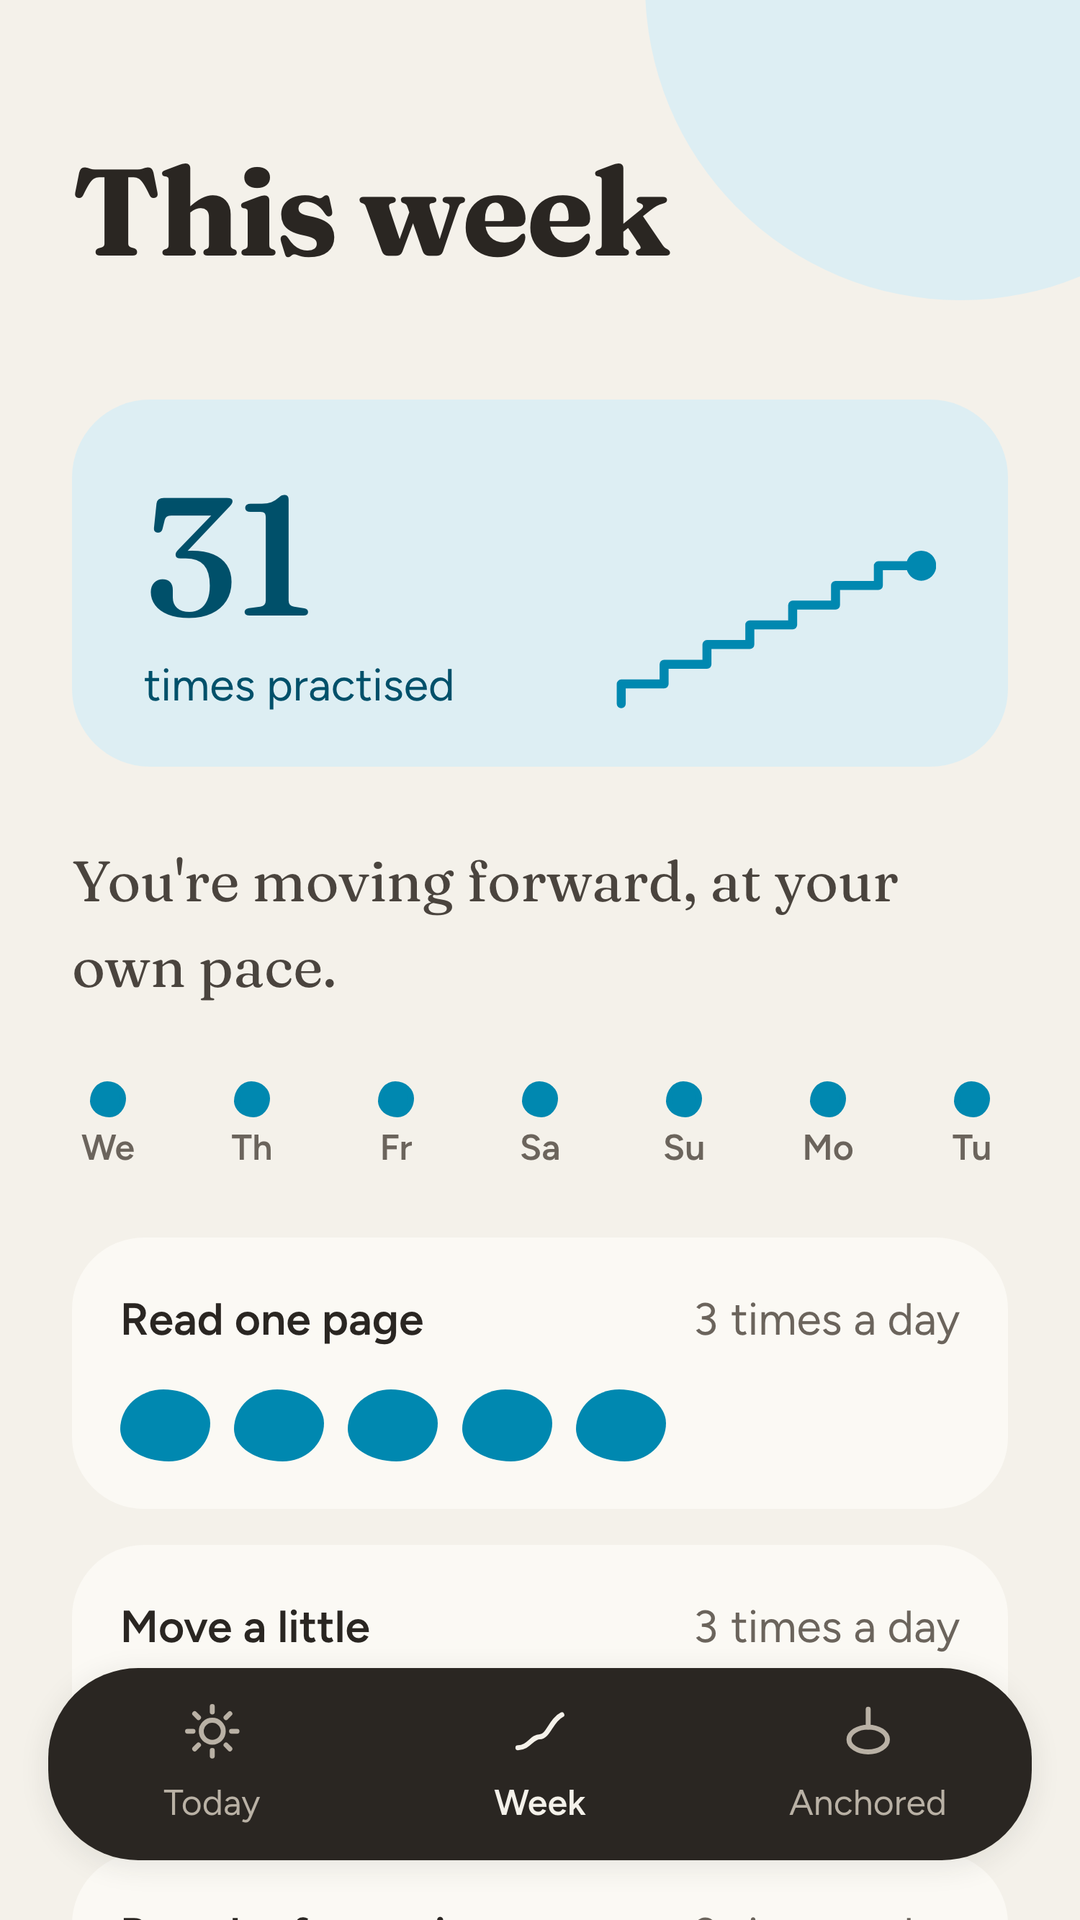
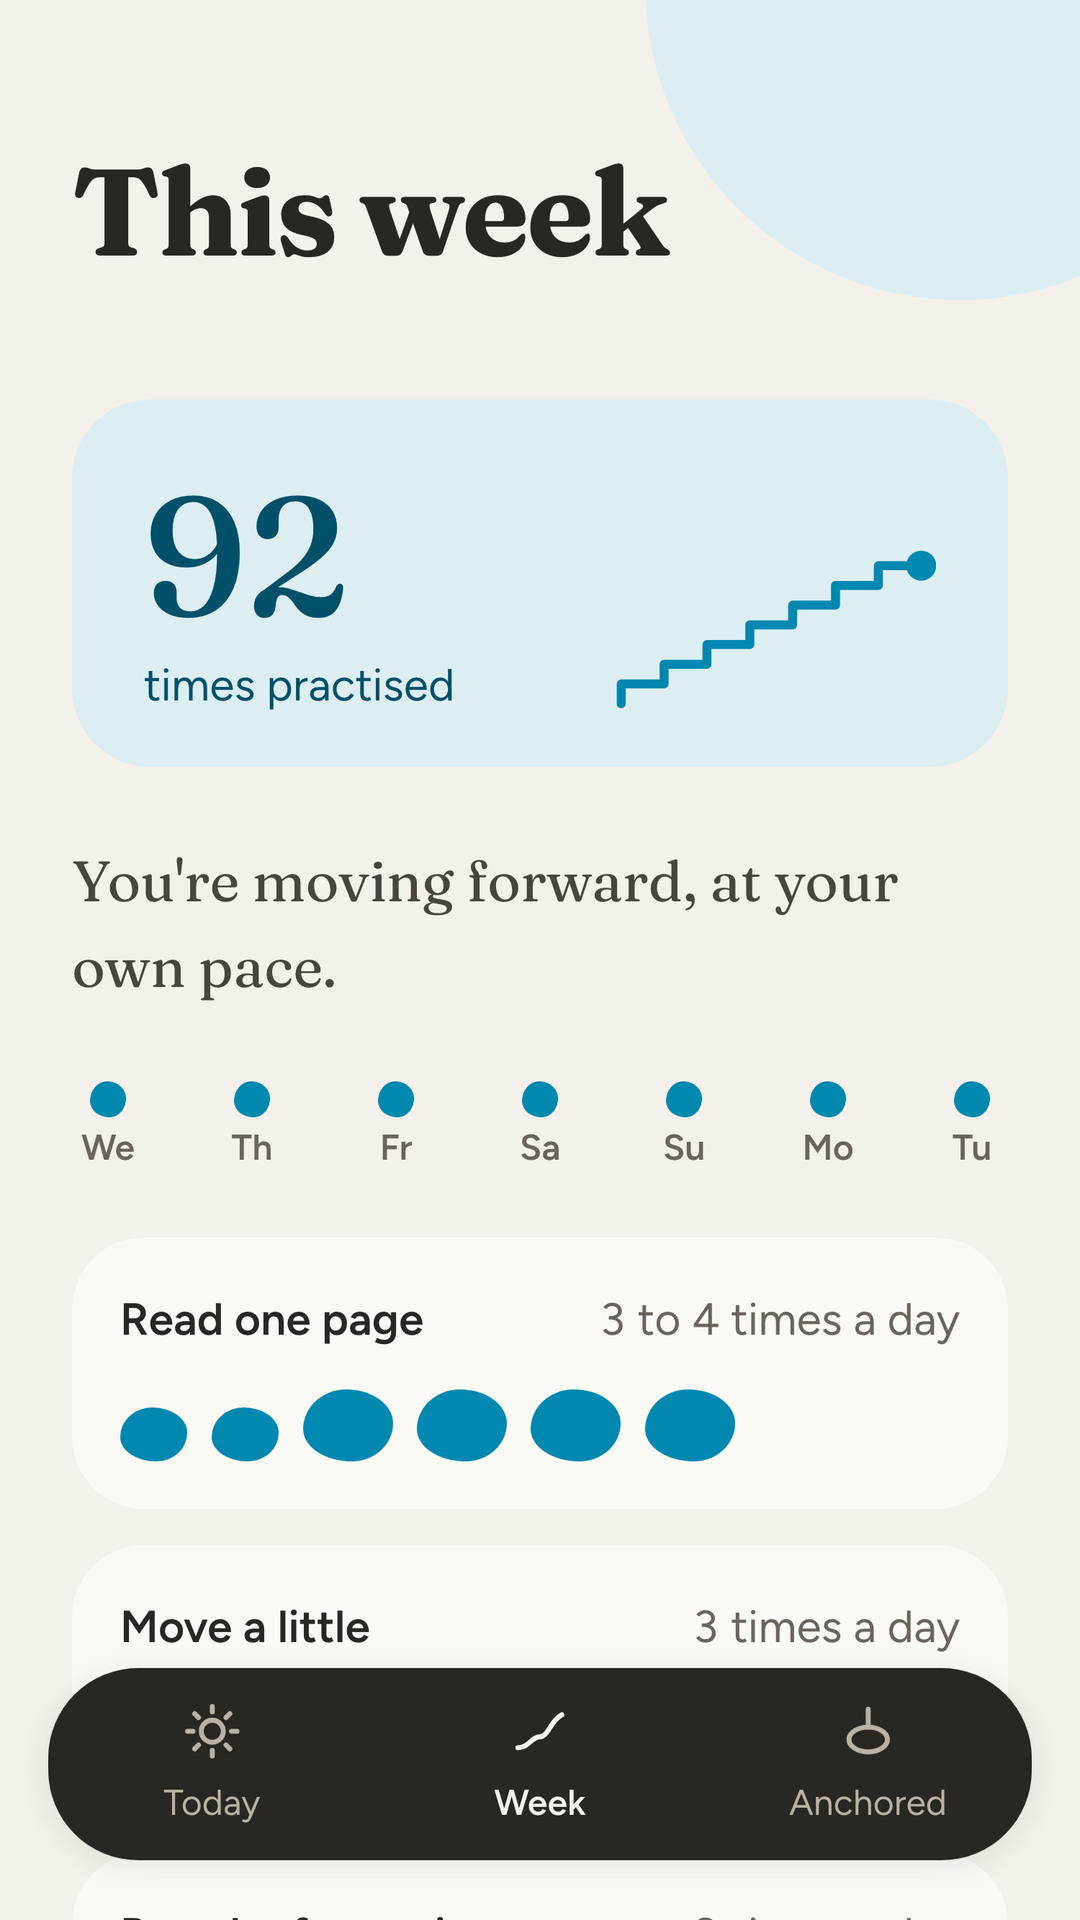
S39: the store demo board shows the times-per-day model

Changed region(s): [[0.1222, 0.6875, 0.7028, 0.7812], [0.1222, 0.25, 0.3056, 0.3438]]

diff --git a/store/listing/test_build_screenshots.py b/store/listing/test_build_screenshots.py
@@ -56,6 +56,63 @@ class FixedDay(unittest.TestCase):
         self.assertEqual(bs.FIXED_DAY.isoformat(), "2026-03-17")
 
 
+class DemoBoardIsTimesPerDay(unittest.TestCase):
+    """The seeded board must read as the version-2 times-per-day model."""
+
+    def setUp(self):
+        self.bs = load()
+        self.snap = self.bs.snapshot("fr")
+        self.today = self.bs.today_as_stored()
+        self.habits = {h["id"]: h for h in self.snap["habits"]}
+
+    def attempts(self, habit, day):
+        return habit["completions"].count(day)
+
+    def goal_on(self, habit, day):
+        goals = [s["goal"] for s in habit["steps"] if s["on"] <= day]
+        return goals[-1]
+
+    def of_state(self, state):
+        return [h for h in self.snap["habits"] if h["state"] == state]
+
+    def test_the_snapshot_is_version_2_so_the_codec_keeps_the_goals(self):
+        self.assertEqual(self.snap["v"], 2)
+
+    def test_lire_une_page_grows_from_3_to_4(self):
+        steps = self.habits["lire-une-page"]["steps"]
+        self.assertEqual([s["goal"] for s in steps], [3, 4])
+
+    def test_lire_une_page_has_an_empty_day_and_sized_pebbles_in_its_last_seven(self):
+        lire = self.habits["lire-une-page"]
+        week = [self.today - back for back in range(7)]
+        attempts = [self.attempts(lire, d) for d in week]
+        self.assertIn(0, attempts)
+        sized = {round(a / self.goal_on(lire, d), 2) for a, d in zip(attempts, week) if a}
+        self.assertGreaterEqual(len(sized), 3)
+
+    def test_today_reads_2_of_3_with_one_partial_habit(self):
+        active = self.of_state("Active")
+        self.assertEqual(len(active), 3)
+        reached = [
+            self.attempts(h, self.today) >= self.goal_on(h, self.today) for h in active
+        ]
+        self.assertEqual(sum(reached), 2)
+        partial = [
+            h
+            for h in active
+            if 0 < self.attempts(h, self.today) < self.goal_on(h, self.today)
+        ]
+        self.assertEqual(len(partial), 1)
+
+    def test_ancrees_reads_4_of_5_with_anchored_habits_present(self):
+        self.assertEqual(len(self.snap["habits"]) - len(self.of_state("Anchored")), 4)
+        self.assertTrue(self.of_state("Anchored"))
+
+    def test_no_completion_is_dated_after_the_fixed_day(self):
+        for habit in self.snap["habits"]:
+            self.assertLessEqual(max(habit["completions"]), self.today)
+
+
 class BlankDetect(unittest.TestCase):
     def test_a_uniform_white_capture_raises(self):
         from PIL import Image

diff --git a/store/listing/build_screenshots.py b/store/listing/build_screenshots.py
@@ -80,12 +80,16 @@ TITLES = {
 # step dated before a completion is what makes the staircase rise -- the demo
 # board grows "Lire une page" twice so the seven-day window shows two heights.
 BOARD = [
-    ("lire-une-page", "Active", [(-24, 5), (-9, 6), (-3, 7)], [-6, -5, -3, -1, 0]),
-    ("bouger-un-peu", "Active", [(-18, 5)], [-5, -4, -2]),
-    ("respirer-une-minute", "Active", [(-12, 3)], [-6, -4, -3, -1, 0]),
-    ("ecrire-trois-lignes", "Paused", [(-30, 5)], [-20, -18, -15]),
-    ("un-verre-d-eau", "Anchored", [(-70, 5)], [-9, -8, -7, -5, -4, -2, -1, 0]),
-    ("ranger-une-chose", "Anchored", [(-52, 5), (-30, 6)], [-11, -9, -8, -6, -4, -3, -1]),
+    ("lire-une-page", "Active", [(-24, 3), (-3, 4)],
+     [(-10, 3), (-6, 3), (-5, 2), (-3, 4), (-2, 3), (-1, 2), (0, 4)]),
+    ("bouger-un-peu", "Active", [(-18, 3)], [(-5, 3), (-4, 2), (-2, 3), (0, 1)]),
+    ("respirer-une-minute", "Active", [(-12, 2)],
+     [(-6, 2), (-4, 2), (-3, 1), (-1, 2), (0, 2)]),
+    ("ecrire-trois-lignes", "Paused", [(-30, 3)], [(-20, 3), (-18, 2), (-15, 3)]),
+    ("un-verre-d-eau", "Anchored", [(-70, 3)],
+     [(-9, 3), (-8, 3), (-7, 3), (-5, 3), (-4, 3), (-2, 3), (-1, 3), (0, 3)]),
+    ("ranger-une-chose", "Anchored", [(-52, 2), (-30, 3)],
+     [(-11, 3), (-9, 3), (-8, 3), (-6, 3), (-4, 3), (-3, 3), (-1, 3)]),
 ]
 
 SHOTS = [
@@ -140,14 +144,14 @@ def snapshot(locale):
     today = today_as_stored()
     titles = TITLES[locale]
     return {
-        "v": 1,
+        "v": 2,
         "habits": [
             {
                 "id": hid,
                 "title": titles[hid],
                 "state": state,
                 "steps": [{"on": today + d, "goal": g} for d, g in steps],
-                "completions": [today + d for d in done],
+                "completions": [today + d for d, n in done for _ in range(n)],
             }
             for hid, state, steps, done in BOARD
         ],
